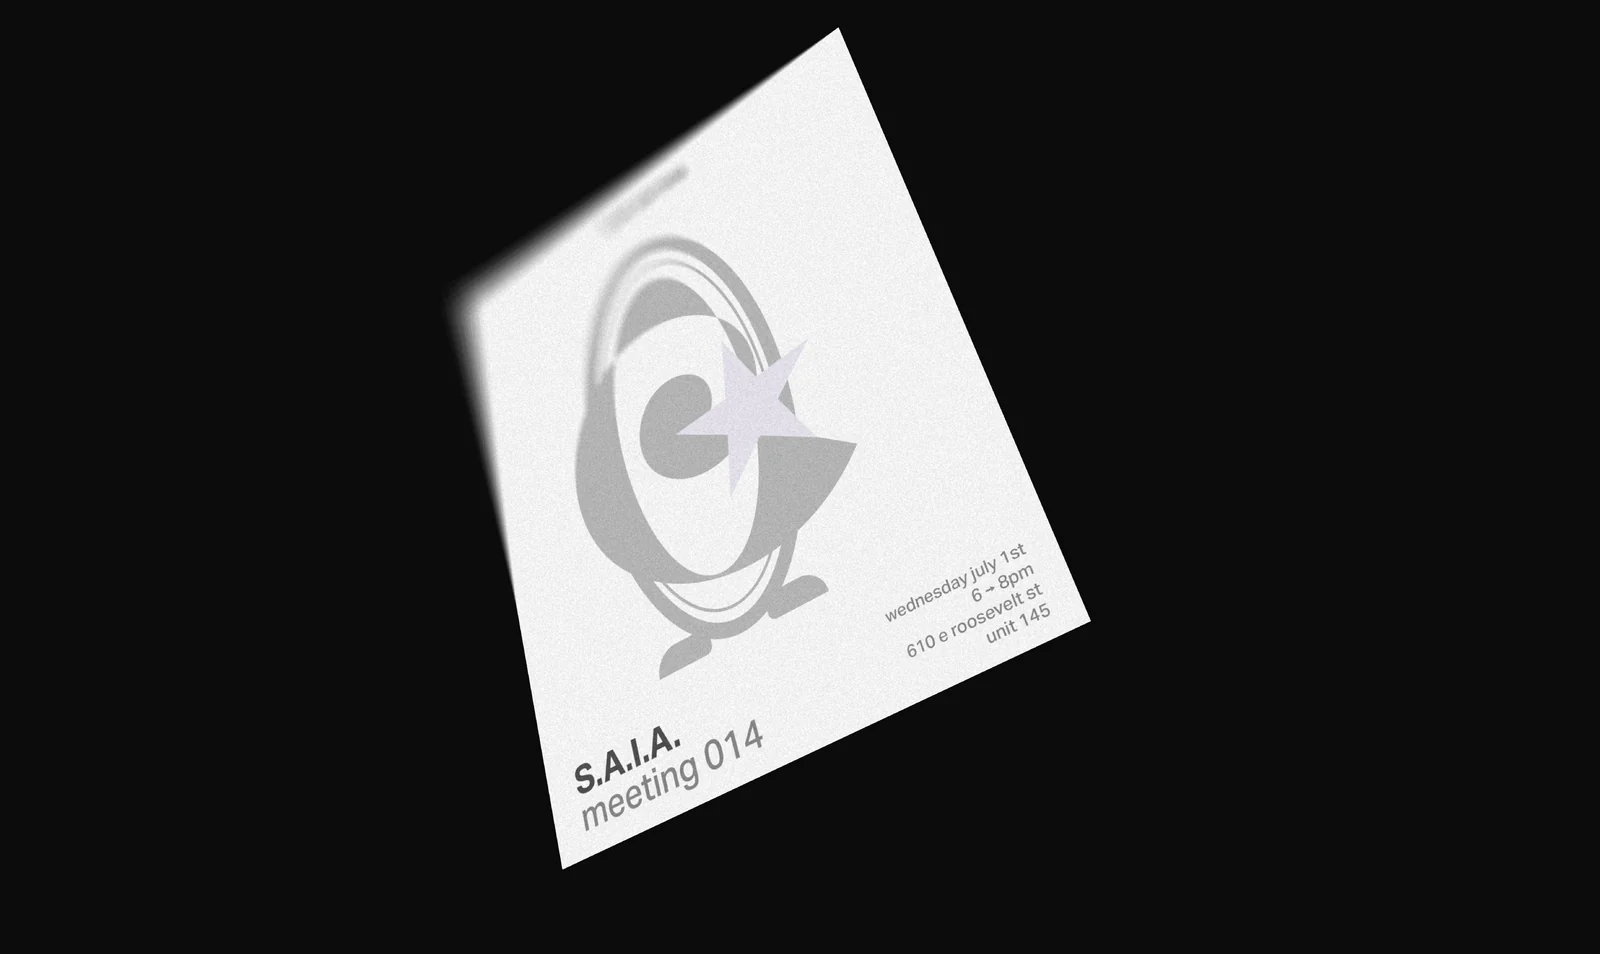
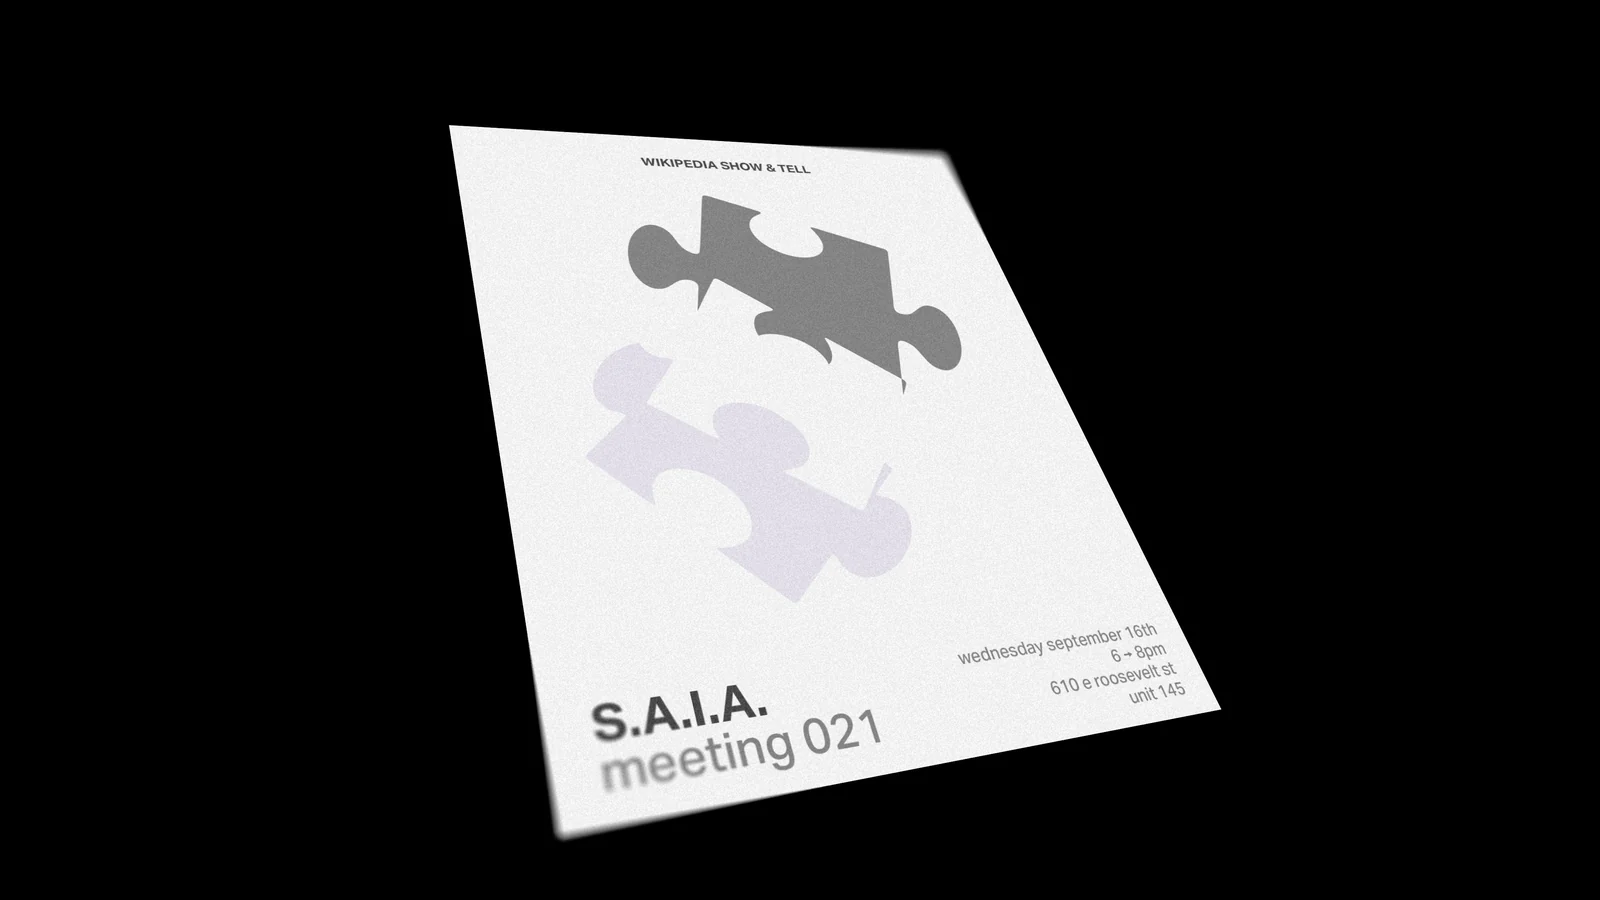
Update SAIA portfolio poster slides

Changed region(s): [[0.2812, 0.0311, 0.7812, 0.9333]]

diff --git a/portfolio/index.html b/portfolio/index.html
@@ -41,8 +41,8 @@
     <article class="project">
       <div class="project-frame slideshow is-tall" aria-label="saia.center mockups">
         <img class="slide is-active" src="media/processed/saia.center-960.webp" srcset="media/processed/saia.center-960.webp 960w, media/processed/saia.center-1600.webp 1600w" sizes="(max-width: 720px) calc(100vw - 48px), 570px" width="1600" height="953" alt="saia.center mobile mockup">
-        <img class="slide" src="media/processed/saia-poster-1-960.webp" srcset="media/processed/saia-poster-1-960.webp 960w, media/processed/saia-poster-1-1600.webp 1600w" sizes="(max-width: 720px) calc(100vw - 48px), 570px" width="1600" height="954" alt="S.A.I.A. poster mockup one">
-        <img class="slide" src="media/processed/saia-poster-2-960.webp" srcset="media/processed/saia-poster-2-960.webp 960w, media/processed/saia-poster-2-1600.webp 1600w" sizes="(max-width: 720px) calc(100vw - 48px), 570px" width="1600" height="954" alt="S.A.I.A. poster mockup two">
+        <img class="slide" src="media/processed/saia-poster-1-960.webp" srcset="media/processed/saia-poster-1-960.webp 960w, media/processed/saia-poster-1-1600.webp 1600w" sizes="(max-width: 720px) calc(100vw - 48px), 570px" width="1600" height="900" alt="S.A.I.A. poster mockup one">
+        <img class="slide" src="media/processed/saia-poster-2-960.webp" srcset="media/processed/saia-poster-2-960.webp 960w, media/processed/saia-poster-2-1600.webp 1600w" sizes="(max-width: 720px) calc(100vw - 48px), 570px" width="1600" height="900" alt="S.A.I.A. poster mockup two">
       </div>
       <h2><a href="https://saia.center/">saia.center</a></h2>
       <div class="project-description">

diff --git a/portfolio/docs/PERFORMANCE_AUDIT.md b/portfolio/docs/PERFORMANCE_AUDIT.md
@@ -10,7 +10,7 @@ Six supplied PNG mockups measured approximately 7,998–8,001px wide. Serving th
 
 - Original PNGs are retained locally in ignored `media/incoming/archive/`.
 - Published derivatives are WebP at 960px and 1600px widths, selected with `srcset` and `sizes`.
-- Published derivative transfer total: approximately 242 KB across 14 files, including the third c75525 laptop-background slide.
+- Published derivative transfer total: approximately 253 KB across 14 files, including the third c75525 laptop-background slide and replacement S.A.I.A. poster slides.
 - All image boxes have fixed aspect ratios and intrinsic image dimensions to prevent layout shift.
 - The three first-visible project images load normally; alternate slideshow images are small responsive derivatives and remain layered, ready for their timed transition.
 
